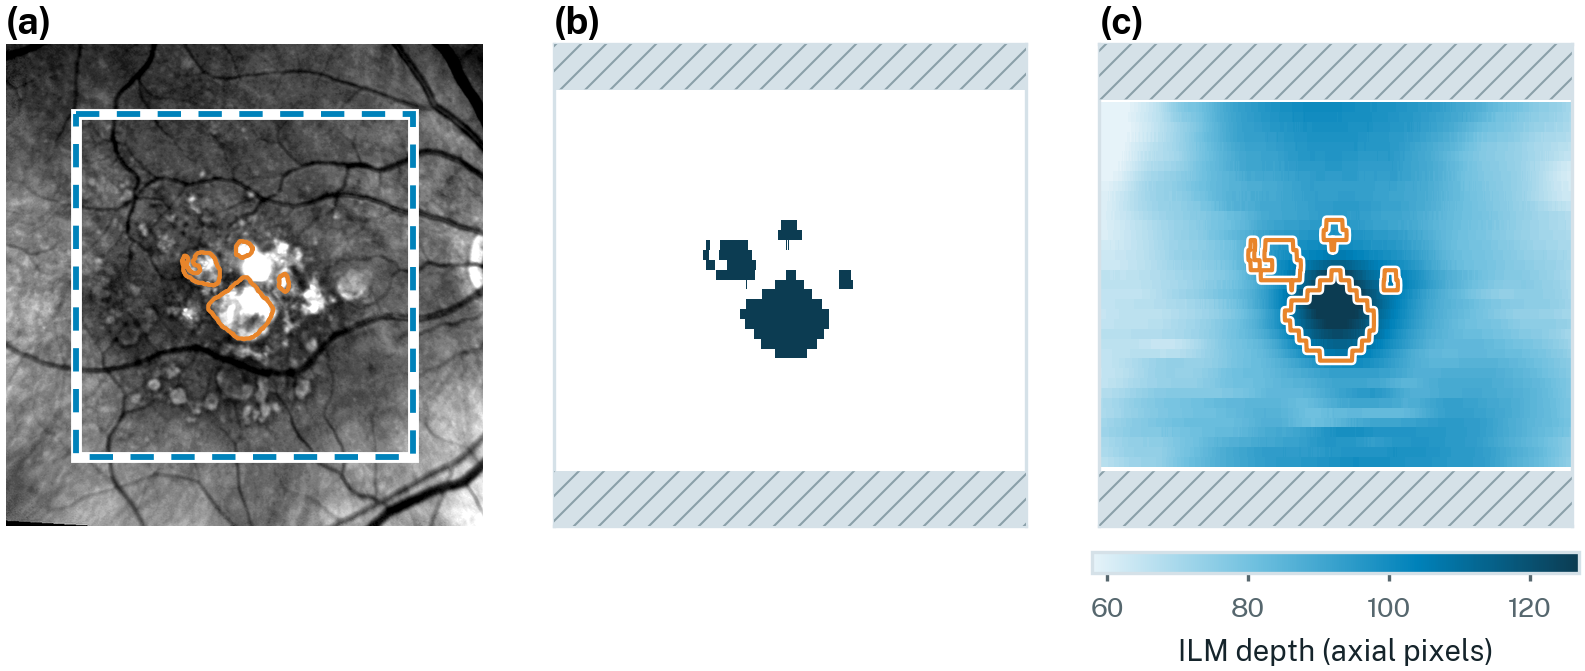
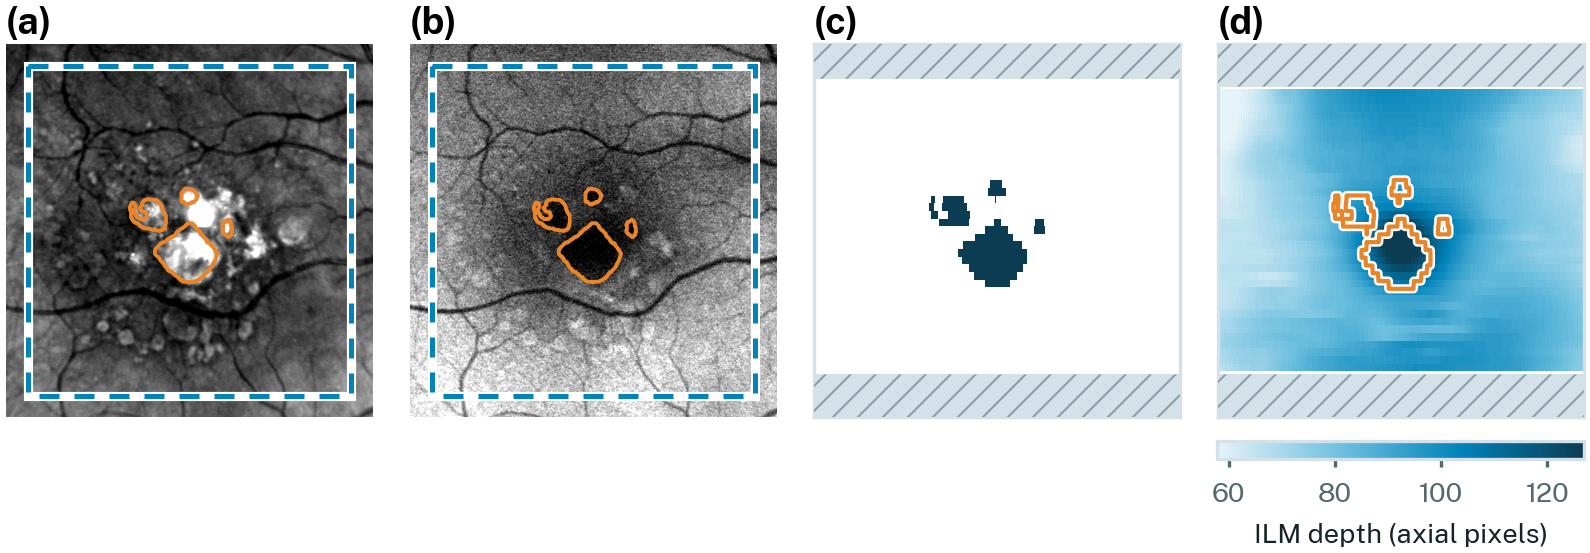
Fig. 3.1: show the visit on near-infrared SLO and on FAF, captioned by modality (bright SLO spots are not all GA); mask and ILM depth now (c)/(d)

diff --git a/images/scripts/fig_data_example_state.py b/images/scripts/fig_data_example_state.py
@@ -3,16 +3,19 @@
     cd images/scripts && python fig_data_example_state.py
 
 Panels (one visit, same eye and baseline day as fig:bg:ga-faf, PEAT0021_OD day 0):
-  (a) SLO fundus image (slo_global.png), contrast-stretched (1st-99th percentile),
-      with the 49 x 1024 modelling window drawn through the visit's T_mask (as in
-      fig_bg_ga_faf.py) and the outline of the GA mask in the global frame
-      (mask_global.png);
-  (b) channel 0, the binary GA mask on the 49 x 1024 modelling grid (centre crop /
+  (a) near-infrared SLO image (slo_global.png) and (b) FAF image (faf_global.png), each
+      contrast-stretched on its own (1st-99th percentile), with the 49 x 1024 modelling
+      window drawn through the visit's T_mask (as in fig_bg_ga_faf.py) and the outline of
+      the GA mask in the global frame (mask_global.png). Both are shown because the
+      lesion looks different on the two: bright on the SLO, dark on FAF, where it was
+      annotated; other bright spots on the SLO are not part of the annotation
+      (median brightness inside / in a 30 px ring: SLO 124 / 93, FAF 63 / 90);
+  (c) channel 0, the binary GA mask on the 49 x 1024 modelling grid (centre crop /
       zero pad of mask_oct.png, same arithmetic as the precompute), at the physical
       aspect ratio, nearest-neighbour, so the tall thin pixels are visible;
-  (c) channel 1, the ILM depth map (axial pixel index), on the same grid, with the
-      lesion outline of (b).
-Hatched: positions without data -- zero padding of the crop (all channels) and, in (c),
+  (d) channel 1, the ILM depth map (axial pixel index), on the same grid, with the
+      lesion outline of (c).
+Hatched: positions without data -- zero padding of the crop (all channels) and, in (d),
 positions where the stored layer value is 0 (no segmentation at this visit).
 
 Source (read-only): data/MUW_GA/scans/<EYE>/<DAY>/{slo_global.png, mask_global.png,
@@ -35,7 +38,7 @@ from fig_bg_ga_faf import window_global, stretch
 
 EYE, DAY = "PEAT0021_OD", 0
 CHANNEL = 1            # ILM (most superficial boundary)
-MARGIN_MM = 1.2
+MARGIN_MM = 0.4
 
 
 def to_window(a: np.ndarray, fill=0):
@@ -80,6 +83,7 @@ def main():
     vd = SCANS / EYE / str(DAY)
 
     slo = np.asarray(Image.open(vd / "slo_global.png").convert("L")).astype(float)
+    faf = np.asarray(Image.open(vd / "faf_global.png").convert("L")).astype(float)
     m_glb = np.asarray(Image.open(vd / "mask_global.png")) > 127
     m_oct = np.asarray(Image.open(vd / "mask_oct.png")) > 127
     layers = np.load(vd / "layers_oct.npz.npy").astype(float)
@@ -92,30 +96,32 @@ def main():
     print(f"window: {(~inside).mean():.1%} zero pad, {nodata_layer.mean():.1%} inside the "
           f"scan without a layer value; lesion {mask_w.sum()} px")
 
-    fig = plt.figure(figsize=pal.fig_size(1.0, 0.40))
-    gs = fig.add_gridspec(2, 3, height_ratios=[1, 0.045], left=0.005, right=0.995,
-                          top=0.93, bottom=0.10, wspace=0.12, hspace=0.10)
-    axa, axb, axc = (fig.add_subplot(gs[0, k]) for k in range(3))
-    cax = fig.add_subplot(gs[1, 2])
+    fig = plt.figure(figsize=pal.fig_size(1.0, 0.33))
+    gs = fig.add_gridspec(2, 4, height_ratios=[1, 0.05], left=0.005, right=0.995,
+                          top=0.92, bottom=0.13, wspace=0.10, hspace=0.12)
+    axs, axf, axb, axc = (fig.add_subplot(gs[0, k]) for k in range(4))
+    cax = fig.add_subplot(gs[1, 3])
     lesion = pal.PAL["accent"]
 
-    # (a) SLO with the modelling window and the lesion outline
+    # (a) SLO and (b) FAF with the modelling window and the lesion outline
     (rr, cc), py, px = window_global(vd)
     mr, mc = MARGIN_MM / py, MARGIN_MM / px
     R0, R1 = int(max(rr[0] - mr, 0)), int(min(rr[1] + mr, slo.shape[0]))
     C0, C1 = int(max(cc[0] - mc, 0)), int(min(cc[1] + mc, slo.shape[1]))
     ext = ((C0 - cc[0]) * px, (C1 - cc[0]) * px, (R1 - rr[0]) * py, (R0 - rr[0]) * py)
-    axa.imshow(stretch(slo[R0:R1, C0:C1]), cmap="gray", vmin=0, vmax=1, extent=ext,
-               interpolation="lanczos")
     gy = (np.arange(R0, R1) - rr[0]) * py
     gx = (np.arange(C0, C1) - cc[0]) * px
-    axa.contour(gx, gy, m_glb[R0:R1, C0:C1].astype(float), levels=[0.5], colors=[lesion],
-                linewidths=1.0)
-    rect = dict(xy=(0, 0), width=(cc[1] - cc[0]) * px, height=(rr[1] - rr[0]) * py, fill=False)
-    axa.add_patch(mpatches.Rectangle(**rect, ec="white", lw=2.6))
-    axa.add_patch(mpatches.Rectangle(**rect, ec=pal.PAL["primary"], lw=1.4, ls=(0, (4, 3))))
-    axa.set_xlim(ext[0], ext[1]); axa.set_ylim(ext[2], ext[3])
-    axa.set_axis_off()
+    for ax, img in ((axs, slo), (axf, faf)):
+        ax.imshow(stretch(img[R0:R1, C0:C1]), cmap="gray", vmin=0, vmax=1, extent=ext,
+                  interpolation="lanczos")
+        ax.contour(gx, gy, m_glb[R0:R1, C0:C1].astype(float), levels=[0.5],
+                   colors=[lesion], linewidths=0.9)
+        rect = dict(xy=(0, 0), width=(cc[1] - cc[0]) * px, height=(rr[1] - rr[0]) * py,
+                    fill=False)
+        ax.add_patch(mpatches.Rectangle(**rect, ec="white", lw=2.2))
+        ax.add_patch(mpatches.Rectangle(**rect, ec=pal.PAL["primary"], lw=1.2, ls=(0, (4, 3))))
+        ax.set_xlim(ext[0], ext[1]); ax.set_ylim(ext[2], ext[3])
+        ax.set_axis_off()
 
     # (b) channel 0 on the modelling grid, nearest neighbour, physical aspect
     cmap_mask = mpl.colors.ListedColormap(["white", pal.MASK["gt"]])
@@ -133,7 +139,7 @@ def main():
     axc.contour(xs, ys, mask_w.astype(float), levels=[0.5], colors=["white"], linewidths=2.2)
     axc.contour(xs, ys, mask_w.astype(float), levels=[0.5], colors=[lesion], linewidths=1.0)
     cb = fig.colorbar(im, cax=cax, orientation="horizontal")
-    cb.set_label("ILM depth (axial pixels)", fontsize=7)
+    cb.set_label("ILM depth (axial pixels)", fontsize=6.5)
     cb.ax.tick_params(labelsize=6.5, length=2)
     cb.outline.set_edgecolor(pal.PAL["line"])
 
@@ -143,7 +149,7 @@ def main():
         for s in ax.spines.values():
             s.set_visible(True); s.set_edgecolor(pal.PAL["line"])
         ax.set_xticks([]); ax.set_yticks([])
-    for ax, s in zip((axa, axb, axc), "abc"):
+    for ax, s in zip((axs, axf, axb, axc), "abcd"):
         panel_label(ax, f"({s})", x=0.0, y=1.01)
         ax.texts[-1].set_ha("left")
 

diff --git a/03-data.tex b/03-data.tex
@@ -71,9 +71,9 @@ markedly decreased or absent autofluorescence
 (Figure~\ref{fig:bg:ga-faf} shows such an image). The outline was then
 registered automatically to the near-infrared image that is aligned with
 the OCT, which yields the en-face annotation on the OCT grid.
-Figure~\ref{fig:data:example-state} shows one visit as the SLO fundus
-image with the OCT field of view, the GA mask on the modelling grid and a
-layer-boundary depth map.
+Figure~\ref{fig:data:example-state} shows one visit on the near-infrared
+image and on the FAF image, together with the GA mask on the modelling
+grid and a layer-boundary depth map.
 % FAF origin of the mask confirmed by the supervisor (review 2, 2026-10-17,
 % SV-6.7: "it was"). Layer segmentation: Iowa Reference Algorithms (3.2).
 % TODO: confirm the device model (Spectralis) with the MUW data provider.
@@ -116,6 +116,9 @@ distributions are shown in Appendix~\ref{app:dataset}
 % fig:bg:ga-faf (a)). Native grid 38 x 1059, so 22.4 % of the window is zero
 % padding (11 rows); 2.0 % of the window lies inside the scan without an ILM
 % value. mask_global through T_mask reproduces mask_oct at IoU 1.000.
+% Median brightness inside the lesion / in a 30 px ring around it: SLO
+% 124 / 93, FAF 63 / 90 (2026-10-20). The bright SLO spots outside the
+% outline are not dark on FAF; what they are is not recorded in the data.
 % Median ILM depth 114 axial px inside the lesion, 83 outside; retinal
 % thickness (channel 10 - channel 1) 66 inside, 83 outside.
 \begin{figure}[t]
@@ -123,20 +126,24 @@ distributions are shown in Appendix~\ref{app:dataset}
   \includegraphics[width=\textwidth]{images/fig_data_example_state.png}
   \caption[One visit of the MUW cohort.]{%
     One visit of the MUW cohort: the first visit of the eye shown in
-    Figure~\ref{fig:bg:ga-faf}.
-    \emph{(a)}~SLO fundus image. The dashed square marks the
-    $49 \times 1024$ modelling window, the orange line the outline of the
-    GA lesion.
-    \emph{(b)}~The binary GA mask (channel~0) on the modelling grid, drawn
+    Figure~\ref{fig:bg:ga-faf}. In (a) and (b), the dashed square marks
+    the $49 \times 1024$ modelling window and the orange line the outline
+    of the GA annotation.
+    \emph{(a)}~Near-infrared SLO image. The lesion appears bright. The
+    other bright spots are not dark on FAF and are not part of the
+    annotation.
+    \emph{(b)}~FAF image of the same visit, on which the lesion was
+    annotated. The lesion appears dark.
+    \emph{(c)}~The binary GA mask (channel~0) on the modelling grid, drawn
     at its physical aspect ratio of about $5.94 \times 5.82$\,mm; each
     pixel is about 21 times taller than it is wide, which shows as steps
     along the lesion outline. The native grid of this eye has 38 rows, so
     the window is zero-padded at the top and bottom (hatched).
-    \emph{(c)}~The depth map of the inner limiting membrane (channel~1) on
-    the same grid, in axial pixels, with the lesion outline from (b).
+    \emph{(d)}~The depth map of the inner limiting membrane (channel~1) on
+    the same grid, in axial pixels, with the lesion outline from (c).
     The membrane lies deeper inside the lesion, where the retina is
     thinner. Hatched: positions without data.
-    Panels (b) and (c) show two of the eleven channels of the state
+    Panels (c) and (d) show two of the eleven channels of the state
     tensor before normalisation.}
   \label{fig:data:example-state}
 \end{figure}

diff --git a/NOTES.md b/NOTES.md
@@ -1370,8 +1370,16 @@ Planned in the text (9 placeholders + 2 appendix chapters), in working order:
   window at physical aspect (native 38 x 1059 -> 22.4 % zero pad, hatched), (c) channel 1 (ILM) depth
   map with the lesion outline; IoU mask_global vs mask_oct 1.000. Caption: ILM deeper inside the
   lesion (median 114 vs 83 axial px), retina thinner there (channel 10 - 1: 66 vs 83).
-- [ ] Author to review Fig. 2.5 and Fig. 3.1 (choice of the ILM for panel (c); whether the SLO image
-  may be printed -- same question as the reply-mail item below).
+- [x] 2026-10-20 (author): Fig. 3.1 now shows the visit on both fundus images, captioned by modality:
+  (a) near-infrared SLO (lesion bright; the other bright spots are not dark on FAF and not part of the
+  annotation), (b) FAF (lesion dark, the image it was annotated on), (c) mask, (d) ILM depth. Reason:
+  with Fig. 2.3 a reader could take every white spot on the SLO for GA. Brightness inside / ring:
+  SLO 124 / 93, FAF 63 / 90. §3.1 sentence reworded.
+- [ ] Fig. 2.5 (author 2026-10-20: "from the vis I don't get it"): the TikZ version stays in for now; a
+  three-panel bar redesign (values u_i^k with the stencil -> rates f_i -> u^{k+1} = u^k + dt f with
+  the old heights dashed; one real heat-equation step) was proposed, awaiting the author's answer.
+- [ ] Author to review Fig. 3.1 (choice of the ILM for panel (d); whether the SLO/FAF images may be
+  printed -- same question as the reply-mail item below).
 - [ ] Reply mail: confirm that de-identified MUW FAF/SLO fundus images may be printed in the thesis
   (needed for `fig:bg:ga-faf` and `fig:data:example-state`).
 
